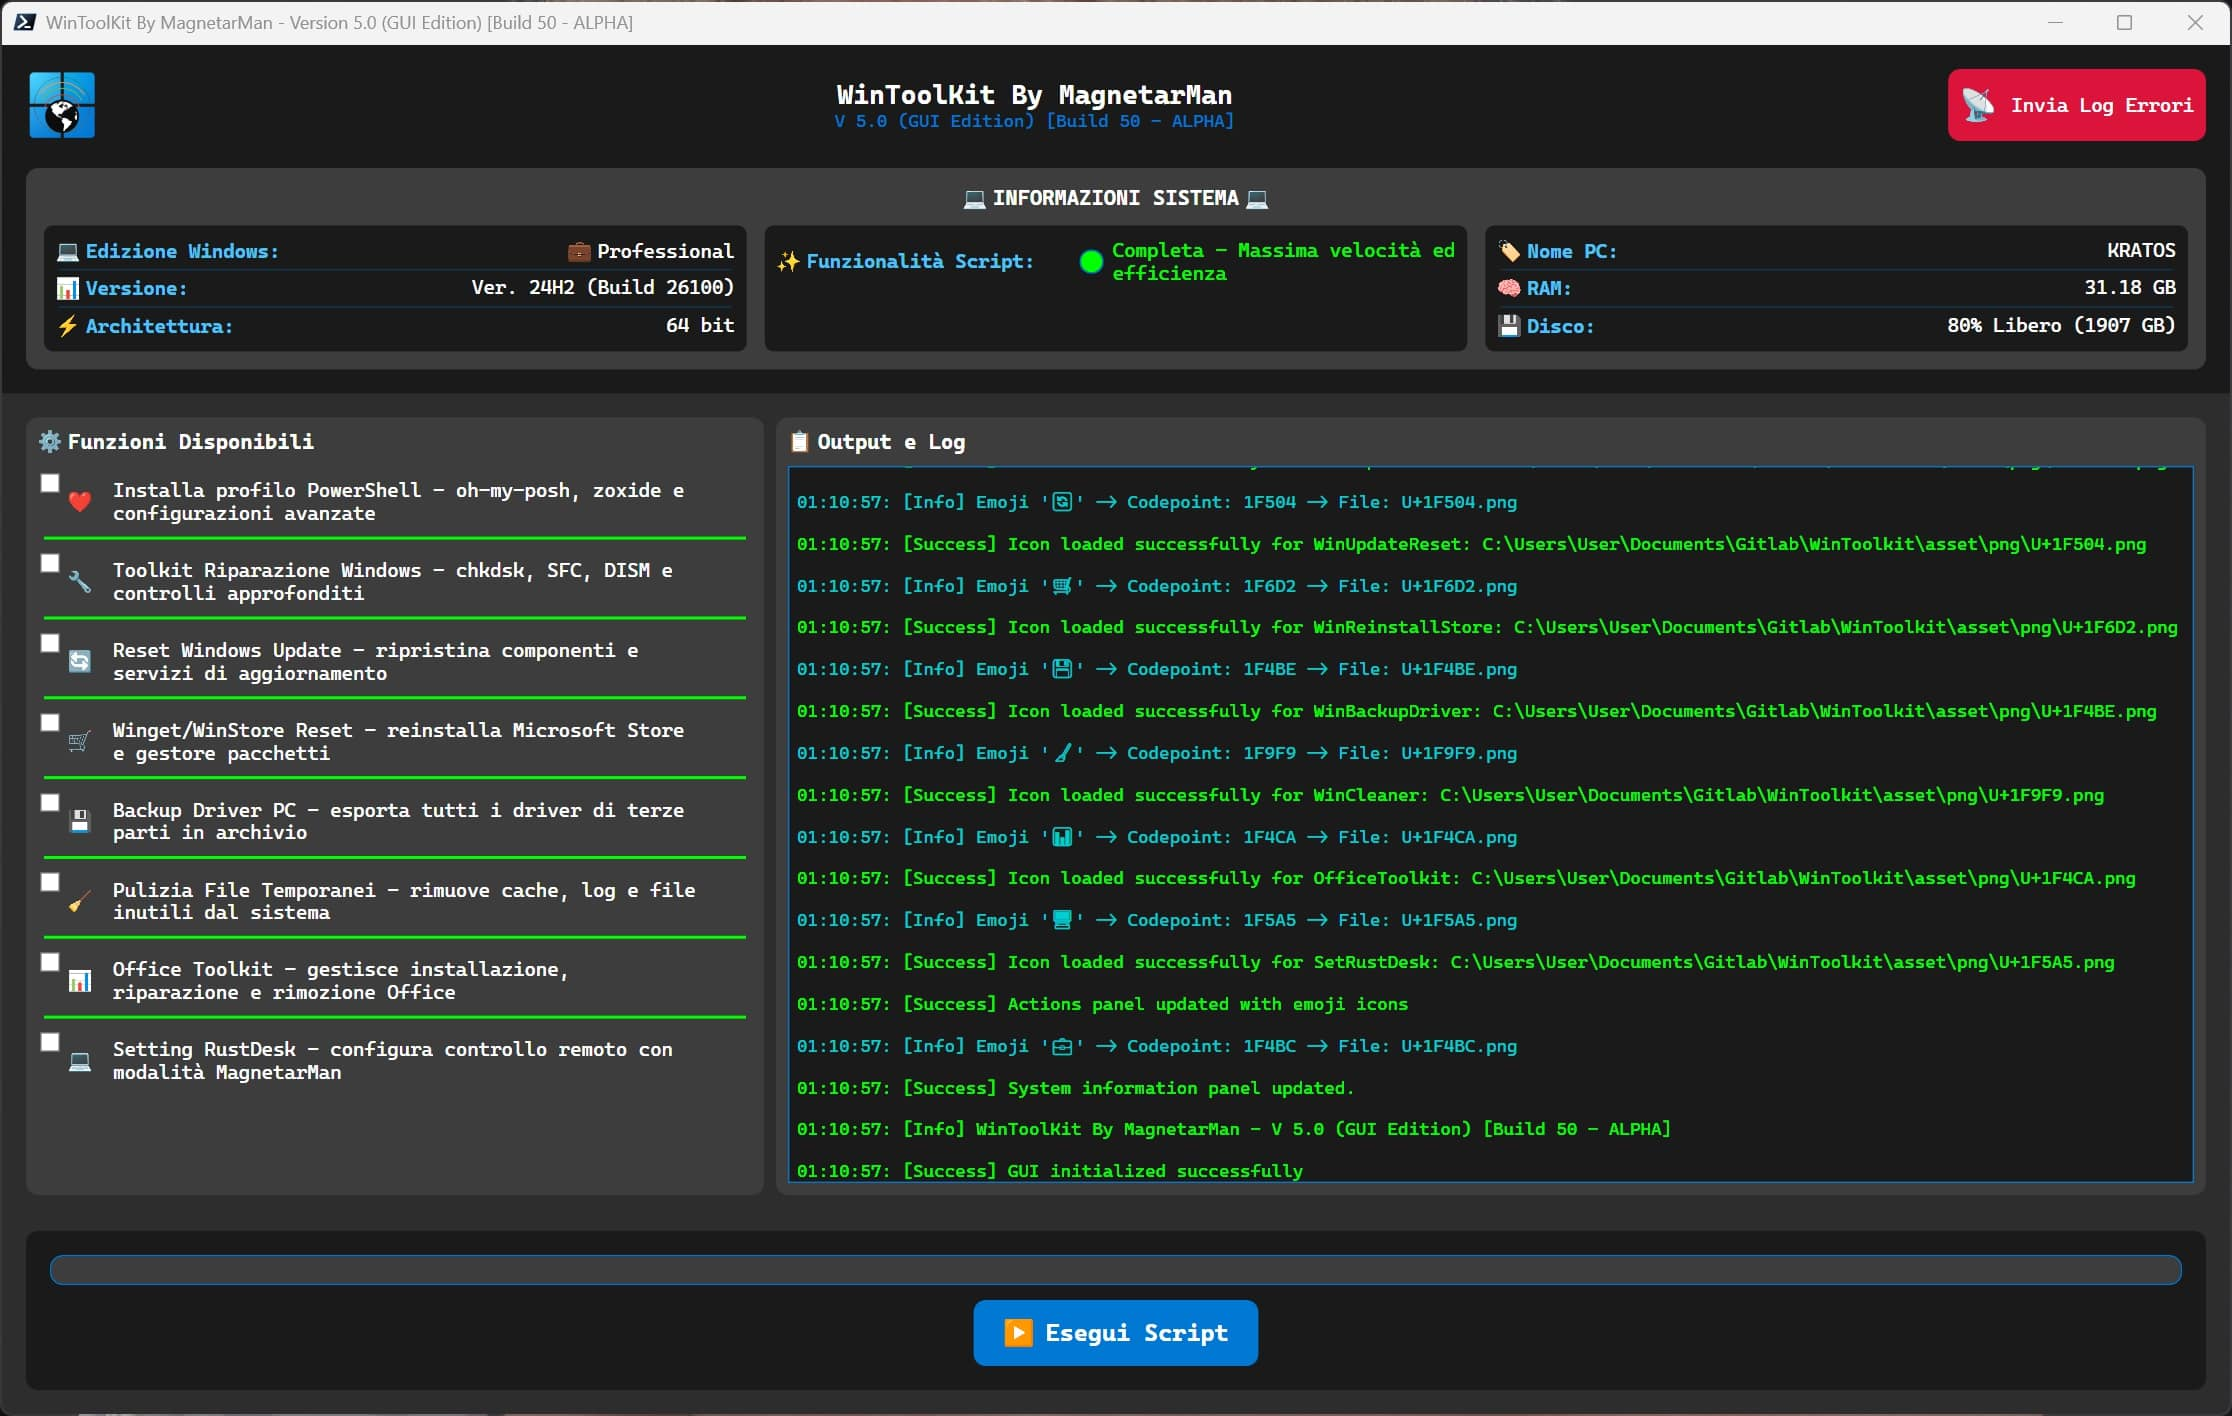
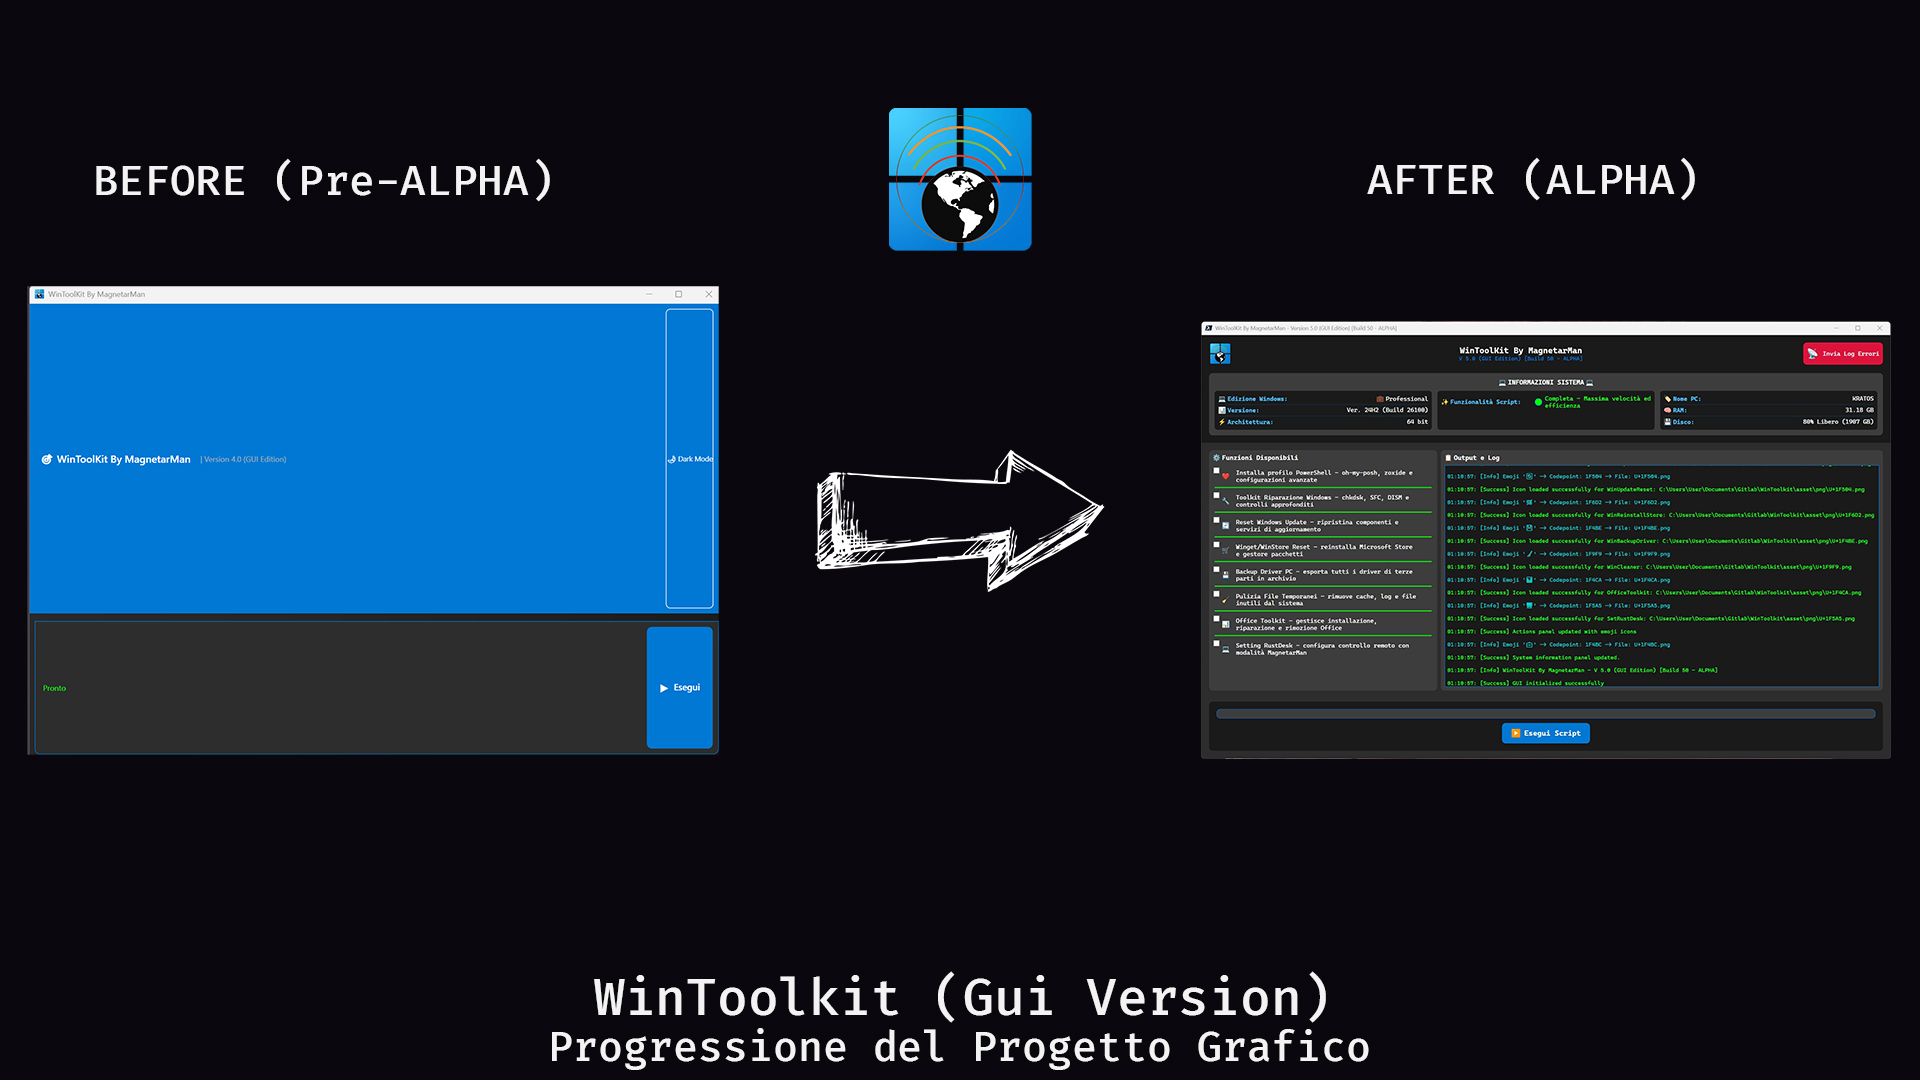
Update Readme

diff --git a/README.md b/README.md
@@ -62,6 +62,10 @@
  <img src="img/Gui-Mode.jpg" alt="Gui-Mode-banner" width="1200">
 </div>
 
+|                                 Before                                  |                                 After                                 |
+| :---------------------------------------------------------------------: | :-------------------------------------------------------------------: |
+| <img src="img/Gui-Before.jpg" alt="Gui-Mode-Before-banner" width="800"> | <img src="img/Gui-After.jpg" alt="Gui-Mode-After-banner" width="800"> |
+
 ## 👾 Features
 
 - **Interfaccia Intuitiva**: Nonostante la sua potenza, il toolkit presenta un menu interattivo e facile da utilizzare, che guida l'utente nella scelta dello strumento più adatto per il problema.
